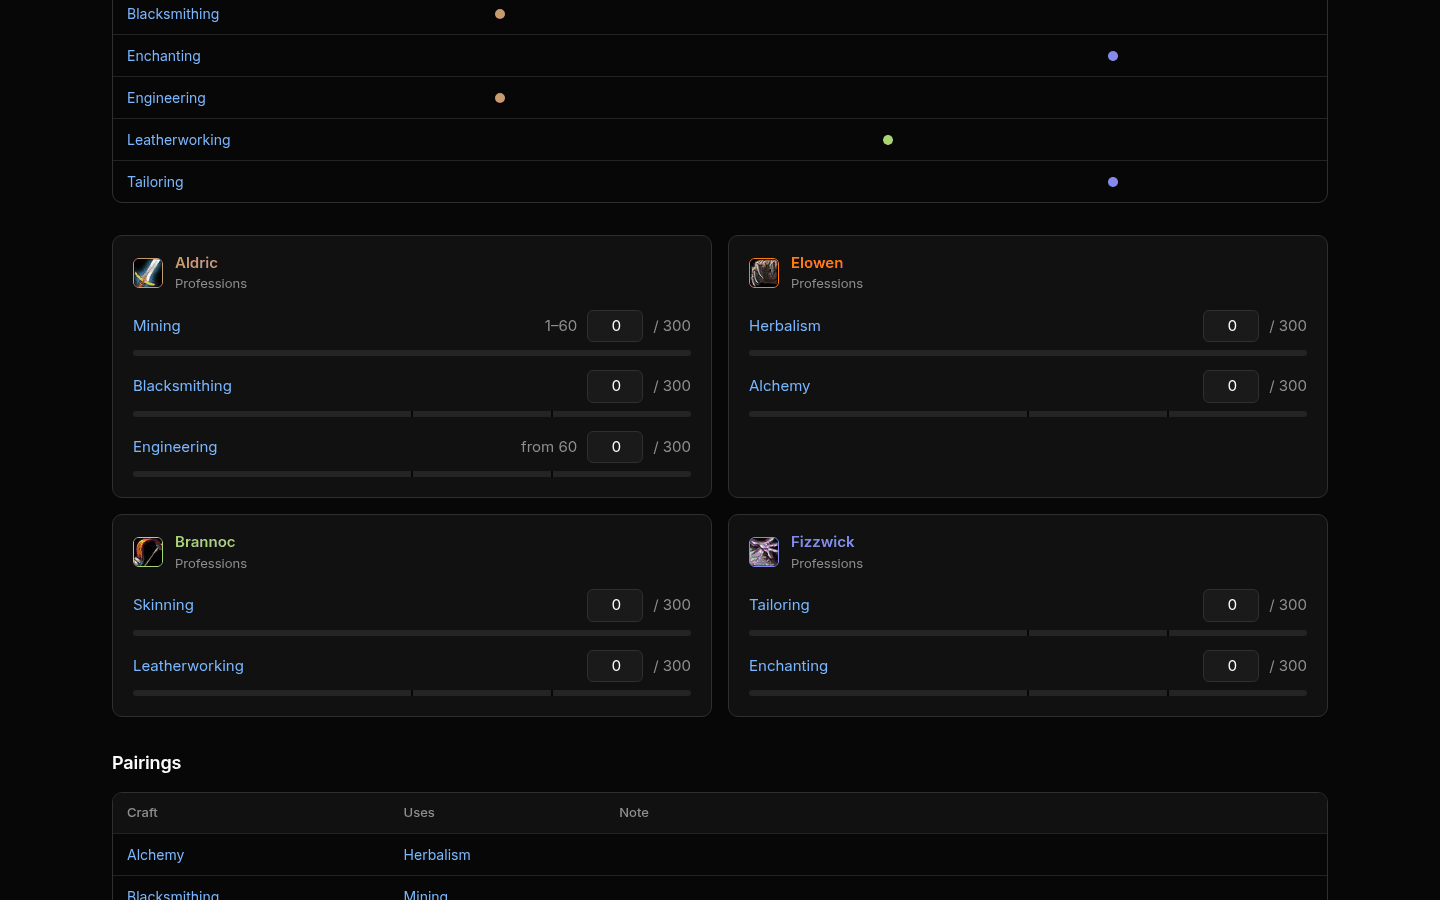
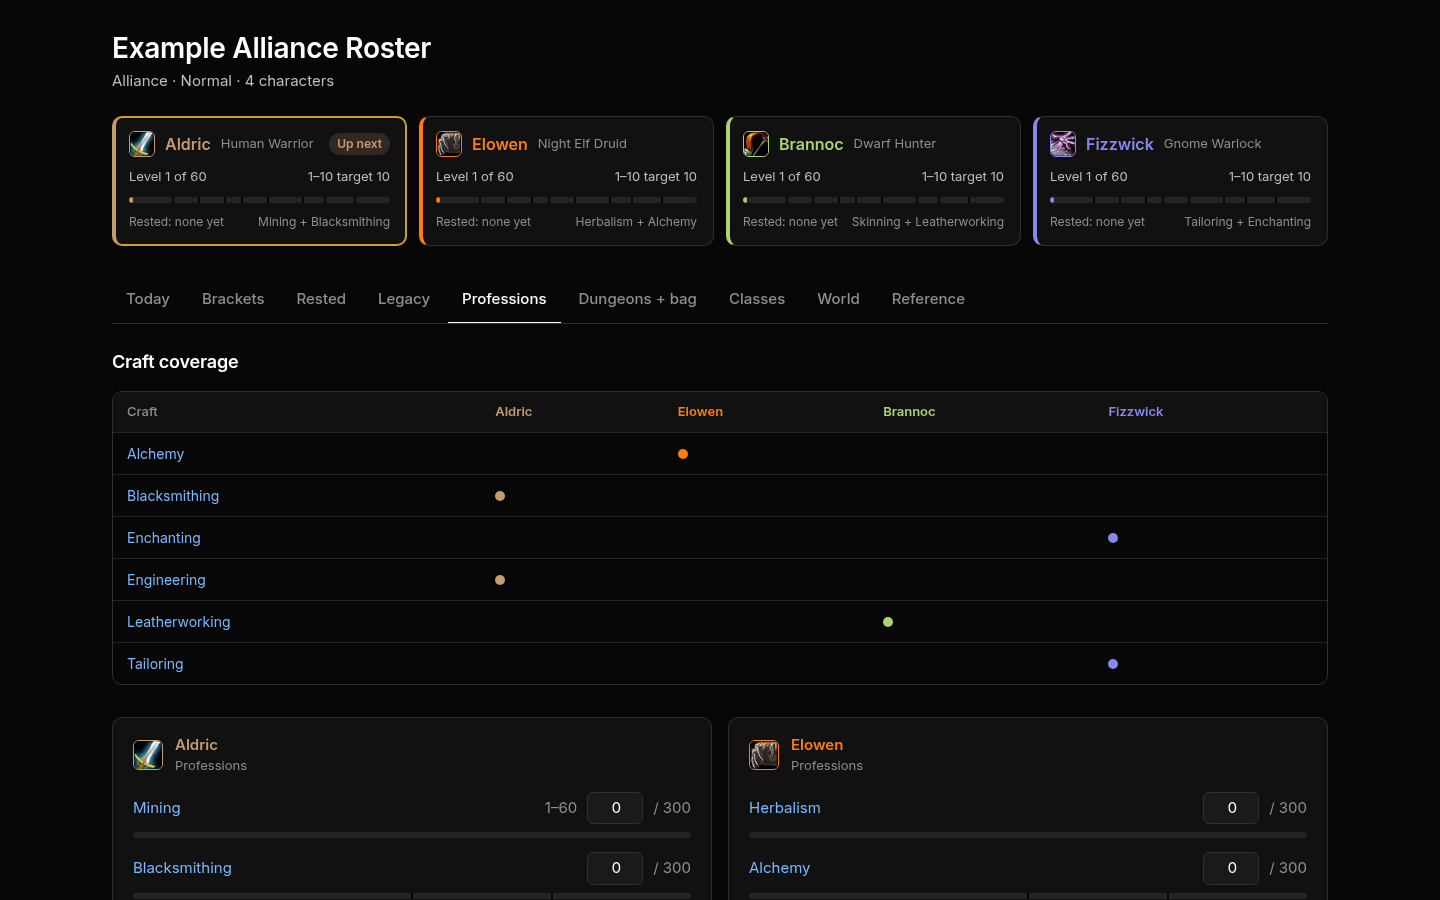
Web page: mark the chosen roster card and bracket in gold, like the Grok Bot Page (#75)

diff --git a/web/style.css b/web/style.css
@@ -26,9 +26,10 @@ button, input, select { font: inherit; color: inherit; }
 #top h1 { font-size: 28px; line-height: 1.2; }
 #top .sub { color: var(--t2); margin-top: 4px; }
 .roster { display: grid; grid-template-columns: repeat(auto-fit, minmax(240px, 1fr)); gap: 12px; margin-top: 24px; }
-.rc { text-align: left; background: var(--f1); border: 1px solid var(--b1); border-radius: var(--r); padding: 14px 16px; cursor: pointer; display: grid; gap: 10px; transition: border-color .15s, background .15s; }
+.rc { text-align: left; background: var(--f1); border: 1px solid var(--b1); border-left: 4px solid var(--cc); border-radius: var(--r); padding: 14px 16px 14px 13px; cursor: pointer; display: grid; gap: 10px; transition: border-color .15s, background .15s; }
 .rc:hover { background: var(--f2); }
-.rc[aria-checked="true"] { border-color: var(--cc); box-shadow: inset 0 0 0 1px var(--cc); }
+/* chosen card: 2px gold border, class-colored left edge kept; padding drops 1px so content doesn't move */
+.rc[aria-checked="true"] { border-color: var(--gold); border-left-color: var(--cc); border-width: 2px 2px 2px 4px; padding: 13px 15px 13px 13px; }
 .rc-top { display: flex; align-items: center; gap: 10px; flex-wrap: wrap; }
 .rc-top .nm { font-weight: 600; font-size: 16px; color: var(--cc); }
 .rc-top .meta { color: var(--t3); font-size: 13px; }
@@ -181,6 +182,8 @@ footer { margin-top: 48px; padding-top: 16px; border-top: 1px solid var(--b0); c
   #top h1 { font-size: 22px; }
   .roster { grid-template-columns: 1fr 1fr; gap: 8px; margin-top: 16px; }
   .rc { padding: 10px 12px; gap: 8px; }
+  .rc[aria-checked="true"] { padding: 9px 11px 9px 9px; }
+  .rc:not([aria-checked="true"]) { padding-left: 9px; }
   .rc-row { flex-direction: column; gap: 2px; font-size: 12px; }
   .rc-row.q span:last-child { text-align: left; }
   .rc-top .meta { display: none; }

diff --git a/web/app.js b/web/app.js
@@ -299,8 +299,8 @@
       var on = UI.bracket === b.id, bw = x(b.to) - x(b.from) - 3;
       svg.appendChild(s("g", { style: { cursor: "pointer" }, onclick: function () { UI.bracket = b.id; UI.tab = "brackets"; setHash(); render(); } },
         s("title", null, "Levels " + b.from + "–" + b.to),
-        s("rect", { x: x(b.from) + 1.5, y: top, width: bw, height: bandH, rx: 6, fill: on ? "#ECECEC" : C.f2, stroke: on ? "#ECECEC" : C.b1 }),
-        s("text", { x: (x(b.from) + x(b.to)) / 2, y: top + bandH / 2 + 5.5, "text-anchor": "middle", style: { "font-size": (bw < 70 ? 15 : 16) + "px", "font-weight": 600 }, fill: on ? "#070707" : C.t1 }, b.from + "–" + b.to)));
+        s("rect", { x: x(b.from) + 1.5, y: top, width: bw, height: bandH, rx: 6, fill: on ? C.gold : C.f2, stroke: on ? C.gold : C.b1 }),
+        s("text", { x: (x(b.from) + x(b.to)) / 2, y: top + bandH / 2 + 5.5, "text-anchor": "middle", style: { "font-size": (bw < 70 ? 15 : 16) + "px", "font-weight": 600 }, fill: on ? "#1A1405" : C.t1 }, b.from + "–" + b.to)));
     });
     var y0 = top + bandH + 12;
     rows.forEach(function (r, i) {

diff --git a/docs/design.md b/docs/design.md
@@ -9,7 +9,7 @@ Values below are taken from [`web/style.css`](../web/style.css), [`web/app.js`](
 1. **No how-to or instruction text in the page body.** No "Click a card to…", "Tick items as you go", "Import your file here". Controls explain themselves through their labels. How-to belongs in `docs/`, the README and dialogs that the player opened on purpose (Import).
 2. **No "Showing…" captions.** No "Showing levels 20–30 for Aldric". The selected tab, segment or card already says that.
 3. **No invented shorthand or codes.** Brackets are level ranges written with an en dash: `1–12`, `20–30`, never `B1`, `Br3` or `L20-30`. Projections read "By the end of 20–30". Spell out game names (Legacy, Spelunker, Cozy Sleeping Bag). The one exception is the Road to 60 timeline, where dungeon dots may use the community's standard names (`RFC`, `SFK`, `BRD`, from the `SHORT` table in `web/app.js`) because space is tight; the full name is always in the dot's `<title>` tooltip and everywhere else on the page.
-4. **No redundant state words.** No "Selected", "Active", "Current tab", "(checked)". State is shown visually: a class-colored or gold border on the chosen card, an underline on the chosen tab, a filled segment, a filled checkbox with strikethrough.
+4. **No redundant state words.** No "Selected", "Active", "Current tab", "(checked)". State is shown visually: a gold border on the chosen card and a gold fill on the chosen bracket band, an underline on the chosen tab, a filled segment, a filled checkbox with strikethrough.
 5. **No caveat or disclaimer sentences in the body.** No "This may change at launch" or "Data is unconfirmed". Data status goes in a small tag next to the thing it describes (see [Status tags](#status-tags)). Uncertain items are collected in the Reference tab's **Open questions** table.
 6. **Every game name links to Wowhead's WoW Forever database.** Quests, NPCs, zones, items, dungeons, spells, factions, races and professions. See [Wowhead links](#wowhead-links).
 7. **Class icons and class colors wherever a character or class appears.** Roster cards, panel heads, level rows, timeline rows, table cells naming a character, coverage dots and checklists. See [Classes](#class-colors-and-icons).
@@ -39,9 +39,17 @@ The standalone page uses CSS custom properties on `:root` (`color-scheme: dark`)
 
 Radii: `--r` 10px (cards, panels, tables, dialogs), `--r-sm` 6px (inputs, buttons, checklist rows), 999px for pills. Fonts: `--font` (system UI stack) at 15px/1.5, `--mono` for JSON. Numbers in tables and inputs use `font-variant-numeric: tabular-nums`.
 
-SVG charts (timeline, reward track) can't read CSS variables reliably on every host, so they use the fixed constants `C` in `web/app.js`: `t1 #ECECEC`, `t2 #BEBEBE`, `t3 #9C9C9C`, `f2 #2B2B2B`, `b1 #4A4A4A`, `b0 #353535`, `bg #070707`, `gold #C9A227`. The chosen bracket band is filled `#ECECEC` with `#070707` text.
+SVG charts (timeline, reward track) can't read CSS variables reliably on every host, so they use the fixed constants `C` in `web/app.js`: `t1 #ECECEC`, `t2 #BEBEBE`, `t3 #9C9C9C`, `f2 #2B2B2B`, `b1 #4A4A4A`, `b0 #353535`, `bg #070707`, `gold #C9A227`.
 
-The Grok Bot Page uses the same constants (`SV` in the canvas template, with `bg #141414` to sit on the canvas ground) plus `useGrokTheme()` for subtle dividers. It highlights the chosen card and bracket in gold (`#C9A227`) with dark text (`#1A1405` / `#111`).
+The Grok Bot Page uses the same constants (`SV` in the canvas template, with `bg #141414` to sit on the canvas ground) plus `useGrokTheme()` for subtle dividers.
+
+## Chosen items
+
+One rule on both pages: **the chosen item is marked in gold (`#C9A227`)**.
+
+- **Roster card:** every card has a 4px left edge in its class color. The chosen card's other three sides become a 2px gold border; the class-colored left edge stays. On the page, padding drops by 1px on the thicker sides so the content doesn't move.
+- **Road to 60 bracket band:** the chosen band is filled and stroked gold with dark text (`#1A1405`); other bands are `f2` with a `b1` stroke and `t1` text.
+- Tabs and segmented controls keep their own neutral style (underline, filled segment) on each host.
 
 ## Class colors and icons
 
@@ -64,7 +72,7 @@ Icons are Wowhead's class icons, `https://wow.zamimg.com/images/wow/icons/medium
 How the class color is used:
 
 - Character names are bold in the class color (`.nm`, `--cc`).
-- Roster cards: class-colored name, progress bar and "Up next" pill (18% class-color tint); the chosen card gets a class-colored border on the page, a gold border plus a 4px class-colored left edge on the Grok Bot Page.
+- Roster cards: class-colored name, progress bar and "Up next" pill (18% class-color tint); every card has a 4px class-colored left edge (see [Chosen items](#chosen-items) for the chosen card).
 - Checklists tick to a class-colored box; account-wide lists use gold.
 - Coverage tables mark a character with a class-colored dot.
 - Timeline rows: class-colored progress line and milestone dots; rows for characters not chosen are dimmed to 55%.
@@ -108,7 +116,7 @@ Other tags: **New** (green, `.pill.new`) for content new in Forever, **Not in be
 - [ ] Brackets and ranges are level ranges with an en dash (`20–30`), no codes
 - [ ] Every new game name is in `data/wowhead.json` with a verified id (or shows the dotted search link on purpose)
 - [ ] Characters and classes use the icon and class color from `data/classes.json`
-- [ ] Colors come from the palette tokens above; no new hex values
+- [ ] Colors come from the palette tokens above; no new hex values; chosen cards and bracket bands are gold
 - [ ] Data status is a tag (Seen in beta, Classic data, Unverified), not a sentence
 - [ ] Spacing uses the 4 / 8 / 12 / 16 / 24 / 32 / 48 scale; body stays centered in `.wrap`
 - [ ] Checked at desktop width and at 360px

diff --git a/CHANGELOG.md b/CHANGELOG.md
@@ -9,6 +9,10 @@ The format follows [Keep a Changelog](https://keepachangelog.com/en/1.1.0/). Ver
 
 - **Design standards.** [docs/design.md](docs/design.md) documents the page rules (no instructions, captions, state words or caveats in the body; level ranges; Wowhead links; class icons and colors), the palette tokens, status tags, layout, spacing and mobile behavior, and how the standalone page and the Grok Bot Page stay matched. AGENTS.md, CONTRIBUTING.md and the pull request template point to it ([#73](https://github.com/BradGroux/wow-forever-mission-control/issues/73)).
 
+### Changed
+
+- **Chosen items are gold on the standalone page, as on the Grok Bot Page.** The chosen roster card has a 2px gold border and keeps a 4px class-colored left edge that every card now has; the chosen Road to 60 bracket band is filled gold with dark text instead of light gray. [docs/design.md](docs/design.md#chosen-items) states the single rule ([#75](https://github.com/BradGroux/wow-forever-mission-control/issues/75)).
+
 ## [2026.10.31] - 2026-10-31
 
 First public release, four days before World of Warcraft: Forever launches on November 4, 2026.
